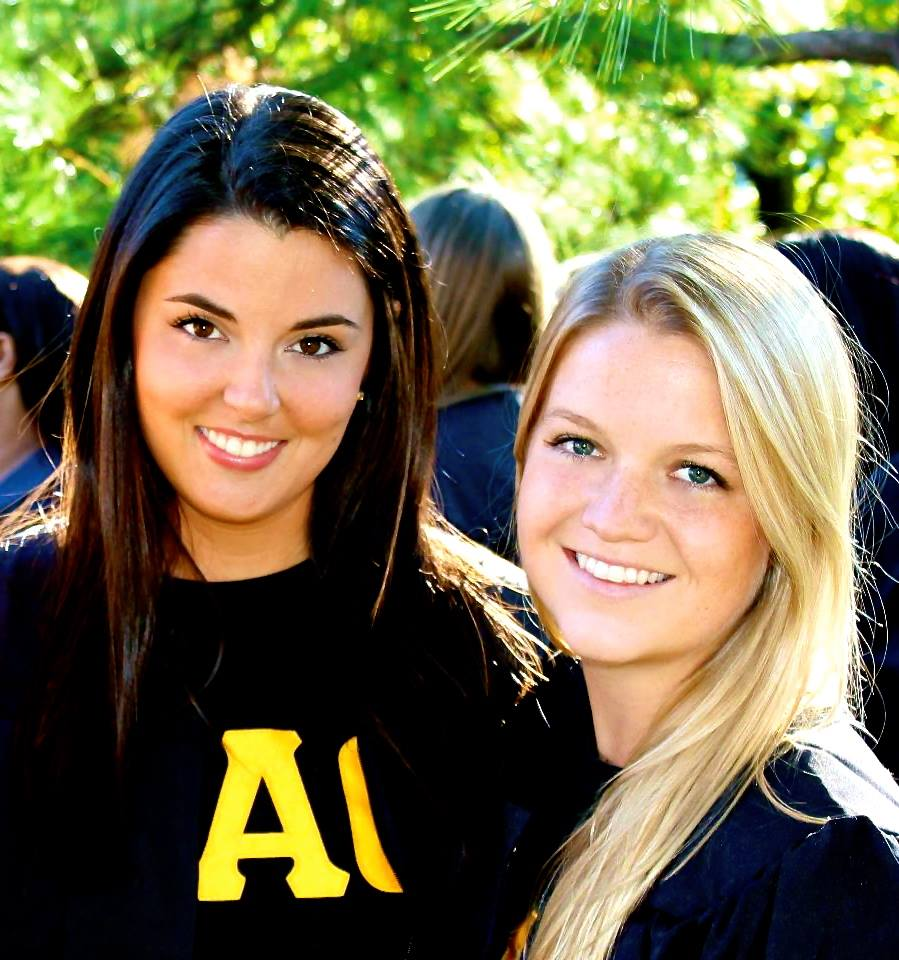
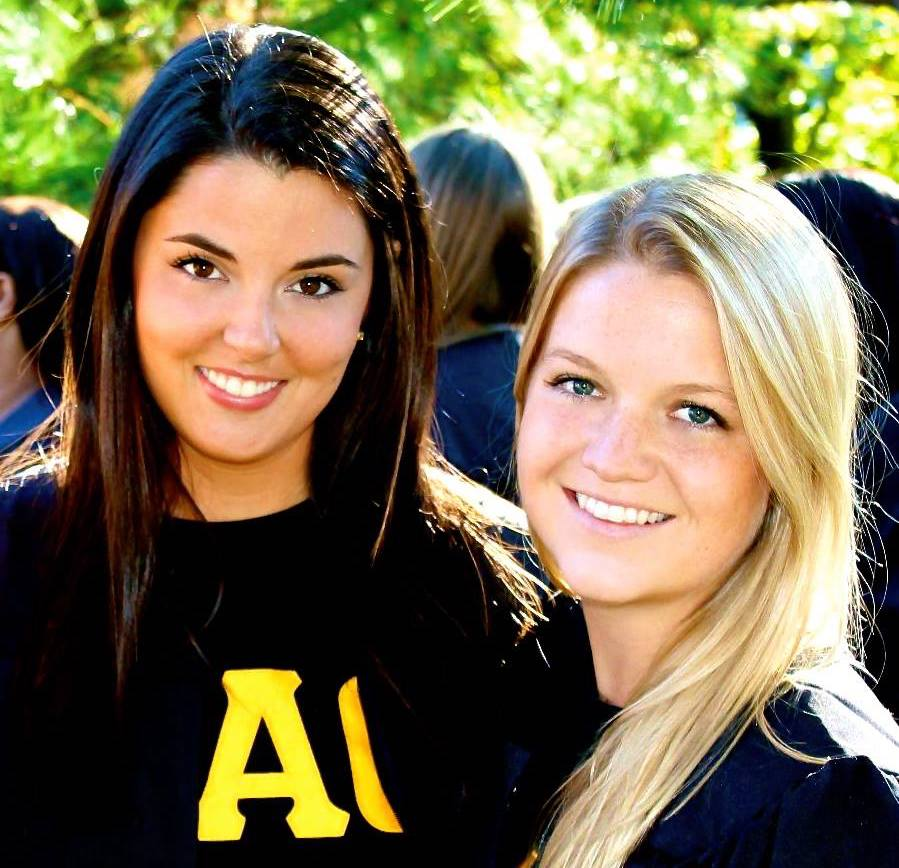
Updates

diff --git a/friends.html b/friends.html
@@ -24,6 +24,9 @@
   <!-- Custom styles for this template -->
   <!--<link href="css/album.css" rel="stylesheet">-->
 
+  <!-- Font Awesome -->
+  <link rel="stylesheet" href="https://use.fontawesome.com/releases/v5.7.2/css/all.css" integrity="sha384-fnmOCqbTlWIlj8LyTjo7mOUStjsKC4pOpQbqyi7RrhN7udi9RwhKkMHpvLbHG9Sr" crossorigin="anonymous">
+
 </head>
 
 <body>
@@ -55,7 +58,7 @@
         <br />
         <br />
         <h2 class="masthead-friends-subheading mb-0">My peeps</h2>
-        <a href="mailto:laura.allen412@gmail.com" class="btn btn-primary btn-xl rounded-pill mt-5">Hit Me Up</a>
+        <!--<a href="mailto:laura.allen412@gmail.com" class="btn btn-primary btn-xl rounded-pill mt-5">Hit Me Up</a>-->
       </div>
     </div>
     <div class="bg-circle-1 bg-circle"></div>
@@ -69,13 +72,13 @@
       <div class="row align-items-center">
         <div class="col-lg-6 order-lg-2">
           <div class="p-5">
-            <img class="img-fluid rounded-circle" src="img/profile.jpeg" alt="">
+            <img class="img-fluid rounded-circle" src="img/beach_friends.jpg" alt="">
           </div>
         </div>
         <div class="col-lg-6 order-lg-1">
           <div class="p-5">
-            <h2 class="display-4">For those about to rock...</h2>
-            <p>Lorem ipsum dolor sit amet, consectetur adipisicing elit. Quod aliquid, mollitia odio veniam sit iste esse assumenda amet aperiam exercitationem, ea animi blanditiis recusandae! Ratione voluptatum molestiae adipisci, beatae obcaecati.</p>
+            <h2 class="display-4">I'm awesome, and so are my friends</h2>
+            <p>I make friends pretty much wherever I go.  Some of my best friends have known me since I was four.  Some of my best friends I met during college.  Some of my best friends I've met after college, via mutual friends or via work.  I love them all.</p>
           </div>
         </div>
       </div>
@@ -87,13 +90,13 @@
       <div class="row align-items-center">
         <div class="col-lg-6">
           <div class="p-5">
-            <img class="img-fluid rounded-circle" src="img/laura_athletic.jpg" alt="">
+            <img class="img-fluid rounded-circle" src="img/kait_laura.jpg" alt="">
           </div>
         </div>
         <div class="col-lg-6">
           <div class="p-5">
-            <h2 class="display-4">We salute you!</h2>
-            <p>Lorem ipsum dolor sit amet, consectetur adipisicing elit. Quod aliquid, mollitia odio veniam sit iste esse assumenda amet aperiam exercitationem, ea animi blanditiis recusandae! Ratione voluptatum molestiae adipisci, beatae obcaecati.</p>
+            <h2 class="display-4">My brother picked these photos</h2>
+            <p>My brother picked out all of the photos on this page by cruising through my Facebook & Instagram photos.  This page is not some type of statement about who I like best.  My brother just picked some photos he thought was cool, nothing more.</p>
           </div>
         </div>
       </div>
@@ -105,13 +108,32 @@
       <div class="row align-items-center">
         <div class="col-lg-6 order-lg-2">
           <div class="p-5">
-            <img class="img-fluid rounded-circle" src="img/laura_pens.jpg" alt="">
+            <img class="img-fluid rounded-circle" src="img/work_homies.jpg" alt="">
           </div>
         </div>
         <div class="col-lg-6 order-lg-1">
           <div class="p-5">
-            <h2 class="display-4">Let there be rock!</h2>
-            <p>Lorem ipsum dolor sit amet, consectetur adipisicing elit. Quod aliquid, mollitia odio veniam sit iste esse assumenda amet aperiam exercitationem, ea animi blanditiis recusandae! Ratione voluptatum molestiae adipisci, beatae obcaecati.</p>
+            <h2 class="display-4">More of my homies</h2>
+            <p>&nbsp;</p>
+          </div>
+        </div>
+      </div>
+    </div>
+  </section>
+
+  <section>
+    <div class="container">
+      <div class="row align-items-center">
+        <div class="col-lg-6">
+          <div class="p-5">
+            <img class="img-fluid rounded-circle" src="img/laura_chris.jpg" alt="">
+          </div>
+        </div>
+        <div class="col-lg-6">
+          <div class="p-5">
+            <h2 class="display-4">My left coast homie</h2>
+            <p><b>Laura:</b> "Greg, this is Chris Cox!  He's one of my best friends, he's like a brother to me!"</p>
+            <p><b>Laura's Actual Brother:</b> "Uh... I guess I need to step it up.  Anyways, welcome to the family Chris."</p>
           </div>
         </div>
       </div>

diff --git a/index.html b/index.html
@@ -24,6 +24,9 @@
   <!-- Custom styles for this template -->
   <!--<link href="css/album.css" rel="stylesheet">-->
 
+  <!-- Font Awesome -->
+  <link rel="stylesheet" href="https://use.fontawesome.com/releases/v5.7.2/css/all.css" integrity="sha384-fnmOCqbTlWIlj8LyTjo7mOUStjsKC4pOpQbqyi7RrhN7udi9RwhKkMHpvLbHG9Sr" crossorigin="anonymous">
+
 </head>
 
 <body>
@@ -110,7 +113,7 @@
         <div class="col-lg-6 order-lg-1">
           <div class="p-5">
             <h2 class="display-4">Reppin' PGH from the 412</h2>
-            <p>I'm from Pittsburgh and my hometown is better than yours.  Remember growing up and wanting to live in that neighborhood Mr. Rogers was always talking about?  I lived that dream.</p>
+            <p>I'm from Pittsburgh and my hometown is better than yours.  Remember growing up and wanting to live in that neighborhood Mr. Rogers was always talking about?  I lived that dream, baby.</p>
           </div>
         </div>
       </div>

diff --git a/photos.html b/photos.html
@@ -24,6 +24,9 @@
     <!-- Custom styles for this template -->
     <link href="css/album.css" rel="stylesheet">
 
+    <!-- Font Awesome -->
+    <link rel="stylesheet" href="https://use.fontawesome.com/releases/v5.7.2/css/all.css" integrity="sha384-fnmOCqbTlWIlj8LyTjo7mOUStjsKC4pOpQbqyi7RrhN7udi9RwhKkMHpvLbHG9Sr" crossorigin="anonymous">
+
     <!-- Custom style for placeholder images -->
     <style>
       .bd-placeholder-img {

diff --git a/photos2.html b/photos2.html
@@ -24,6 +24,9 @@
     <!-- Custom styles for this template -->
     <link href="css/album.css" rel="stylesheet">
 
+    <!-- Font Awesome -->
+    <link rel="stylesheet" href="https://use.fontawesome.com/releases/v5.7.2/css/all.css" integrity="sha384-fnmOCqbTlWIlj8LyTjo7mOUStjsKC4pOpQbqyi7RrhN7udi9RwhKkMHpvLbHG9Sr" crossorigin="anonymous">
+
     <style>
       .bd-placeholder-img {
         font-size: 1.125rem;
